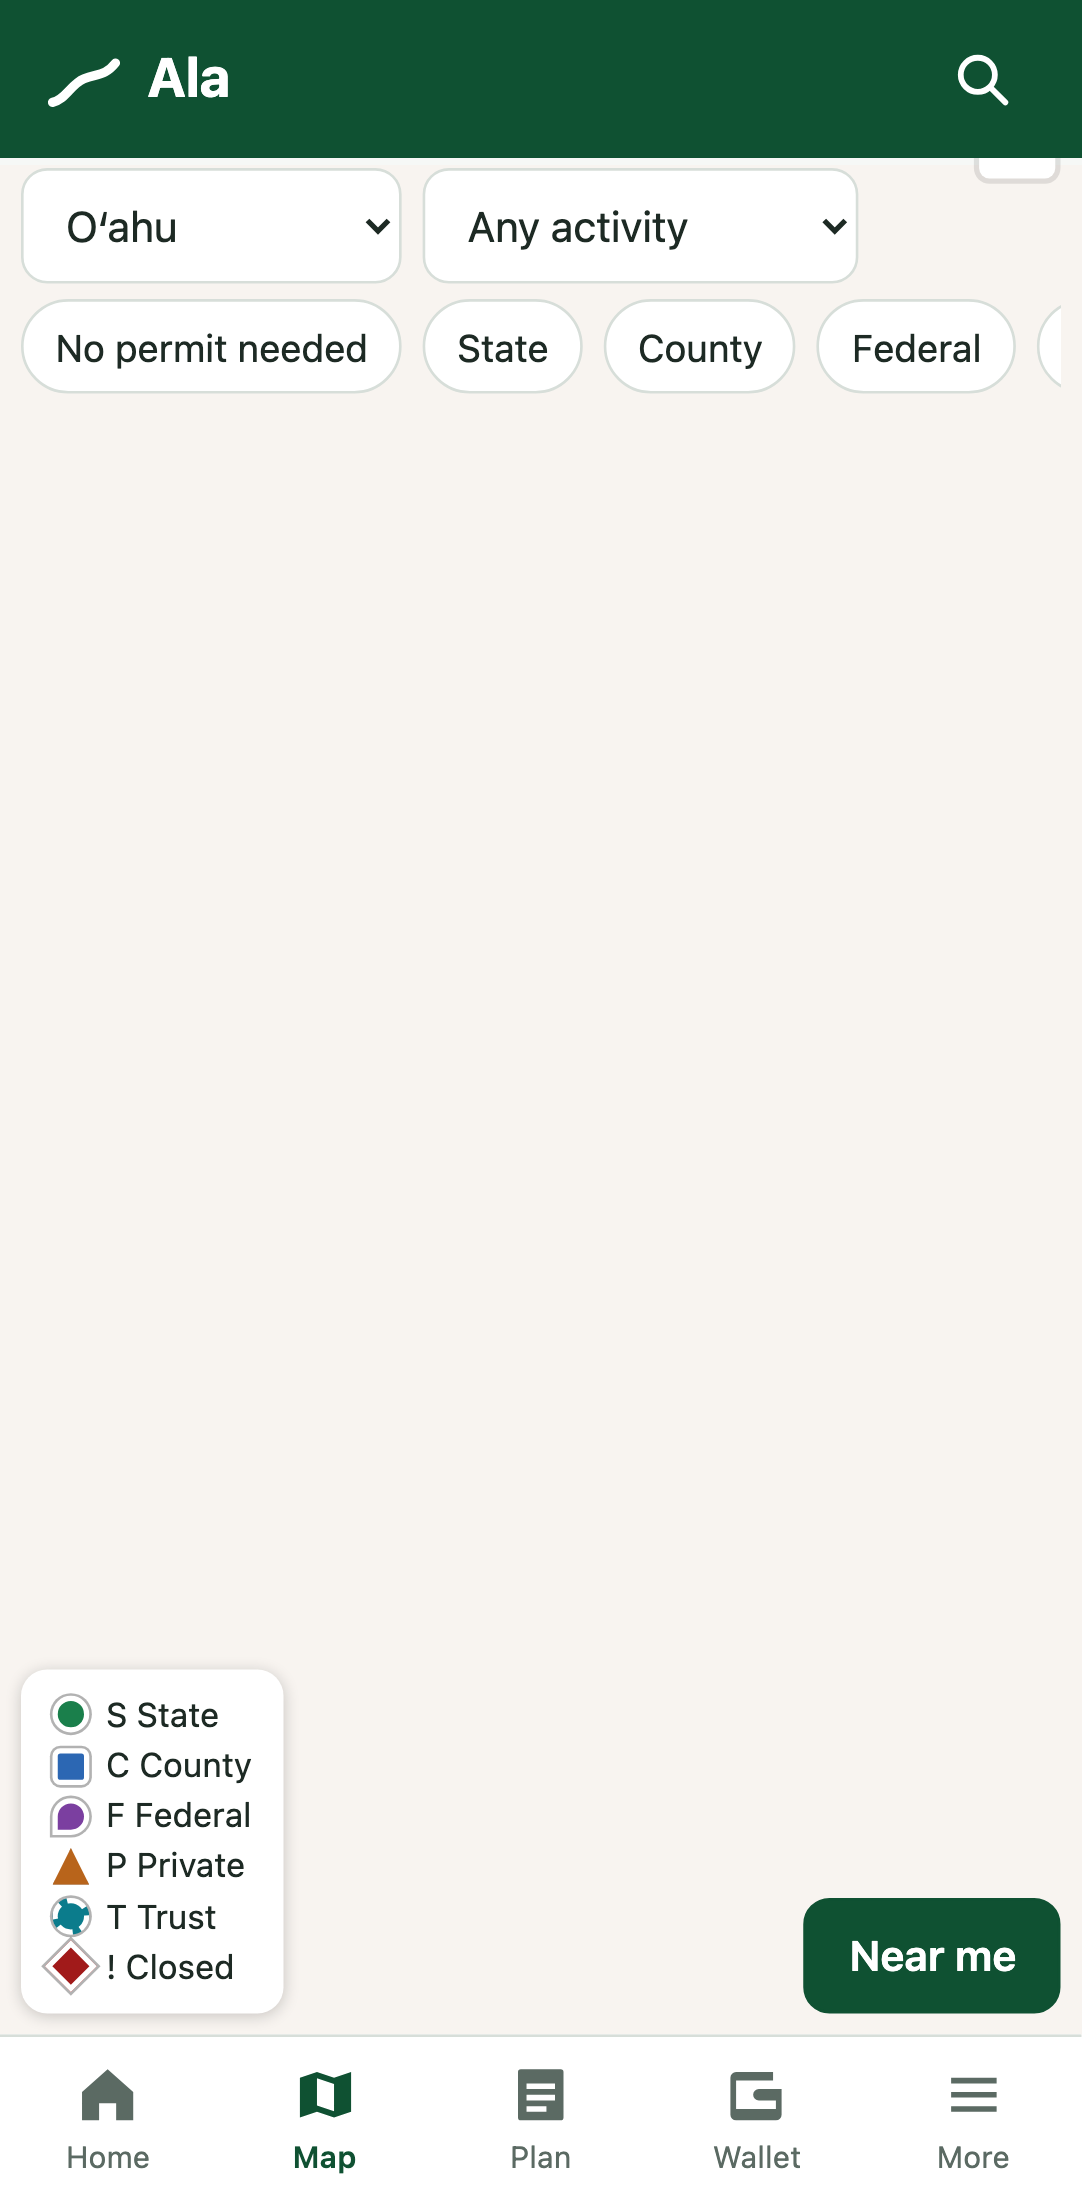
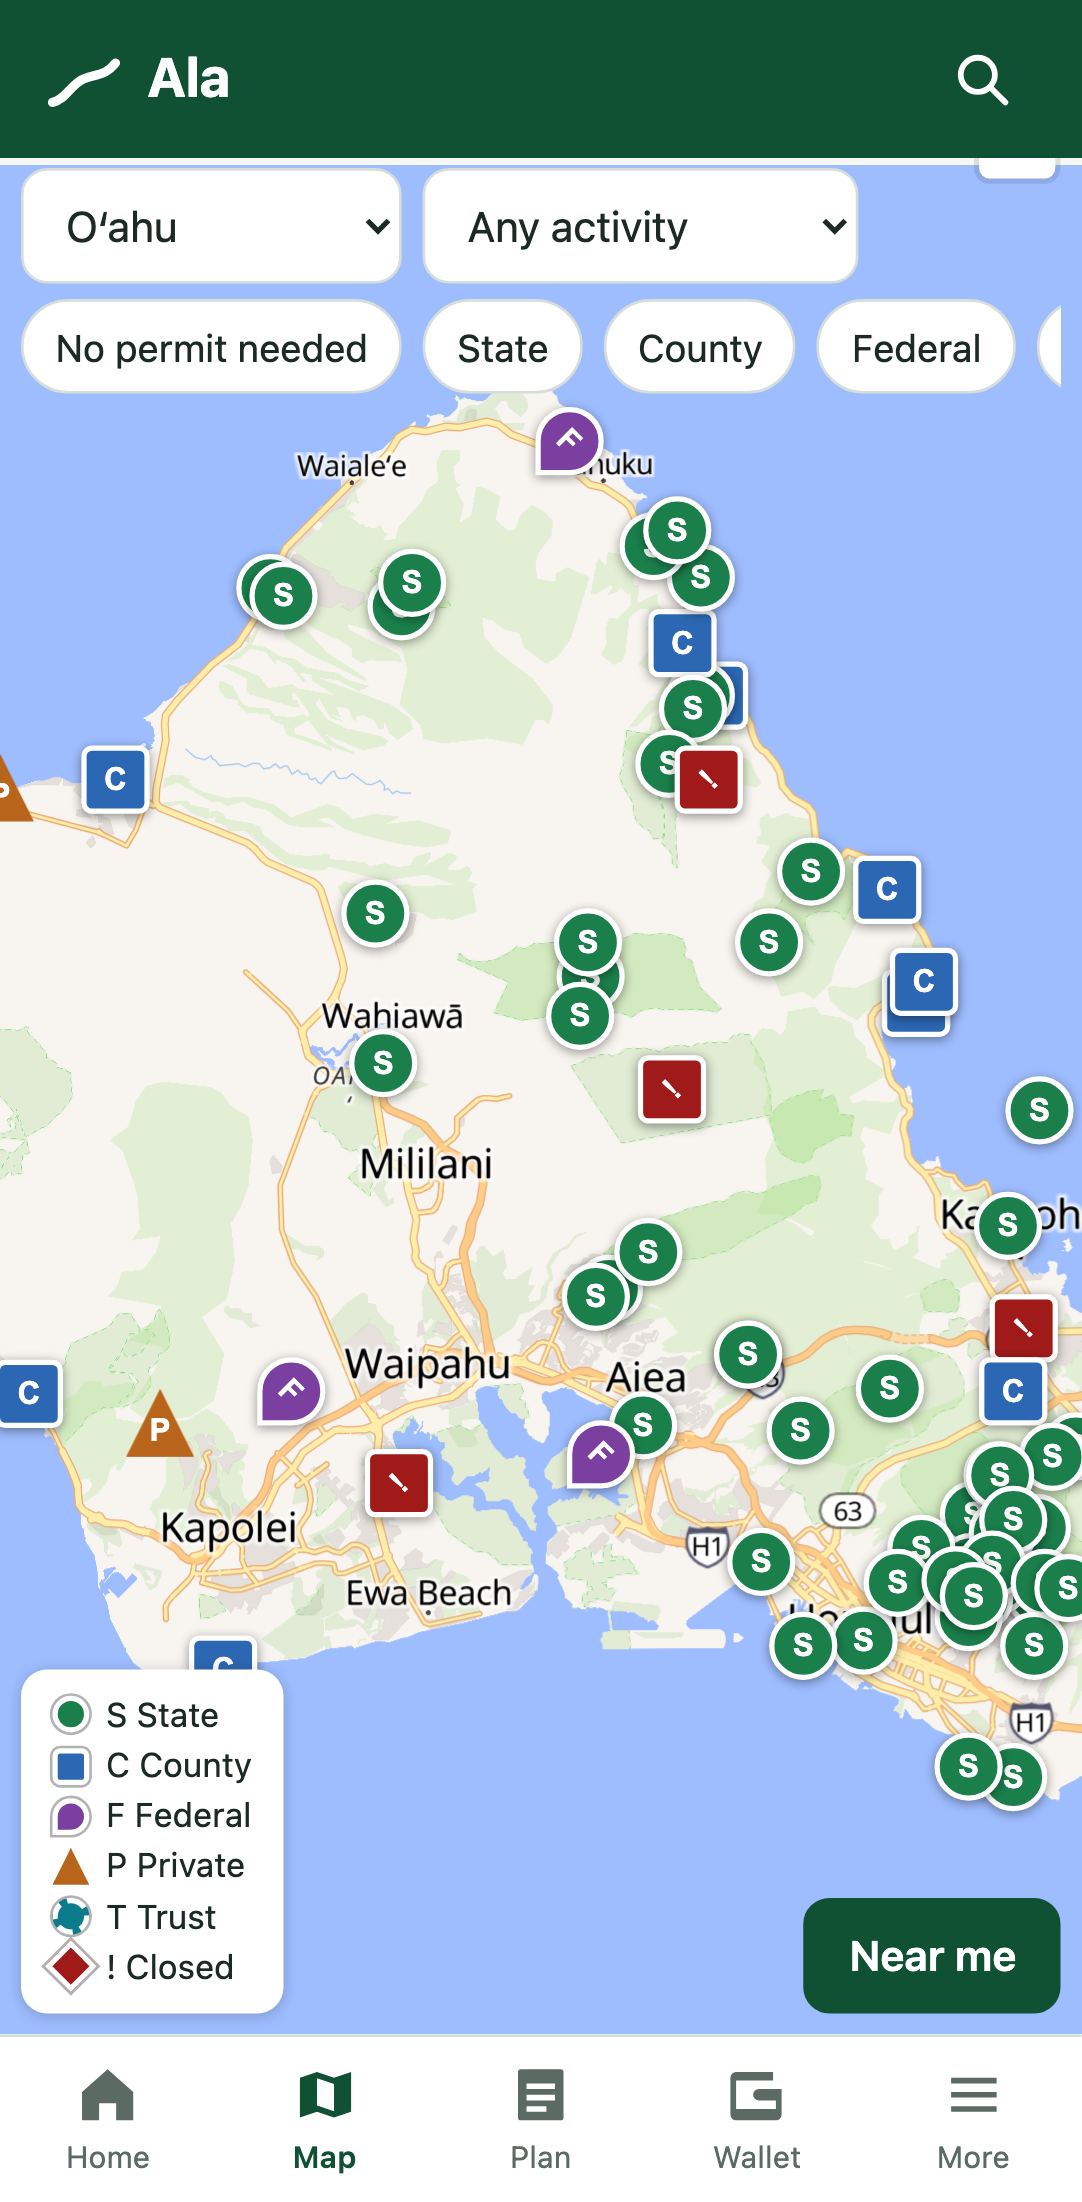
Fix map: bundle MapLibre worker so tiles load; map e2e test; marker glyph fix

diff --git a/app/src/map.js b/app/src/map.js
@@ -1,6 +1,7 @@
 // Map with MapLibre. Online: OpenFreeMap. Offline: a saved PMTiles island pack.
 import * as maplibregl from 'maplibre-gl';
 import 'maplibre-gl/dist/maplibre-gl.css';
+import workerUrl from 'maplibre-gl/dist/maplibre-gl-worker.mjs?worker&url';
 import { PMTiles, Protocol, FileSource } from 'pmtiles';
 import { layers, namedFlavor } from '@protomaps/basemaps';
 import { get, set, del } from './store.js';
@@ -9,6 +10,9 @@ import { isNative, SITE } from './native.js';
 export const ONLINE_STYLE = 'https://tiles.openfreemap.org/styles/liberty';
 const TILES_BASE = (isNative() ? SITE : import.meta.env.BASE_URL) + 'tiles/';
 const ATTRIBUTION = '© <a href="https://www.openstreetmap.org/copyright">OpenStreetMap</a> contributors · <a href="https://openfreemap.org">OpenFreeMap</a> · <a href="https://protomaps.com">Protomaps</a>';
+
+// MapLibre resolves its worker next to its own module, which does not survive bundling. Point it at the Vite built worker.
+maplibregl.setWorkerUrl(workerUrl);
 
 let protocol;
 function ensureProtocol() {

diff --git a/tests/e2e/app.spec.js b/tests/e2e/app.spec.js
@@ -64,3 +64,15 @@ test('works offline after first load', async ({ page, context }) => {
   await expect(page.locator('#banner')).toContainText('offline');
   await context.setOffline(false);
 });
+
+test('map loads tiles and draws markers', async ({ page }) => {
+  const failed = [];
+  page.on('response', (r) => { if (r.status() >= 400 && /assets\//.test(r.url())) failed.push(r.url()); });
+  await page.goto('./#/map');
+  await expect(page.locator('.marker').first()).toBeVisible({ timeout: 30000 });
+  expect(await page.locator('.marker').count()).toBeGreaterThan(20);
+  expect(failed).toEqual([]);
+  await page.locator('.marker').first().click();
+  await expect(page.locator('#sheet')).toBeVisible();
+  await expect(page.locator('#sheet').getByRole('link', { name: 'Full details' })).toBeVisible();
+});

diff --git a/app/src/styles/main.css b/app/src/styles/main.css
@@ -97,6 +97,7 @@ label { display: block; font-weight: 600; margin: .75rem 0 .25rem; }
 .legend { position: absolute; left: .5rem; bottom: .5rem; background: var(--card); padding: .5rem .75rem; border-radius: 10px; font-size: .8rem; z-index: 5; box-shadow: 0 1px 6px rgba(0,0,0,.2); }
 .legend div { display: flex; align-items: center; gap: .4rem; }
 .near-me { position: absolute; right: .5rem; bottom: .5rem; z-index: 5; }
+.marker span { display: inline-block; }
 .marker { width: 26px; height: 26px; display: flex; align-items: center; justify-content: center; color: #fff; font-size: 12px; font-weight: 700; cursor: pointer; border: 2px solid #fff; box-shadow: 0 1px 4px rgba(0,0,0,.4); }
 .marker.state { background: #1a7f4b; border-radius: 50%; }
 .marker.county { background: #2c67b3; border-radius: 4px; }

diff --git a/vite.config.js b/vite.config.js
@@ -6,6 +6,7 @@ export default defineConfig({
   base: process.env.ALA_BASE || '/ala/',
   publicDir: 'public',
   build: { outDir: '../dist', emptyOutDir: true, sourcemap: false },
+  worker: { format: 'es' },
   server: { port: 5173 },
   preview: { port: 4173 },
   plugins: [
